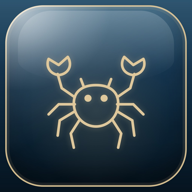
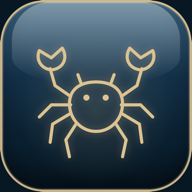
Ícone igual ao do Dock (vidro, filete dourado na borda)

diff --git a/index.html b/index.html
@@ -1,6 +1,6 @@
 <!doctype html><html lang="pt-BR"><head><meta charset="utf-8"><meta name="viewport" content="width=device-width,initial-scale=1,viewport-fit=cover"><meta name="description" content="Skillarium: skills de IA testadas, prontas para colar na sua IA. Tested AI skills, ready to paste into your AI.">
 <title>Skillarium</title>
-<link rel="apple-touch-icon" sizes="180x180" href="apple-touch-icon.png?v=2">
+<link rel="apple-touch-icon" sizes="180x180" href="apple-touch-icon.png?v=3">
 <link rel="icon" type="image/png" sizes="192x192" href="icone-192.png">
 <link rel="manifest" href="manifest.webmanifest">
 <meta name="apple-mobile-web-app-title" content="Skillarium">
